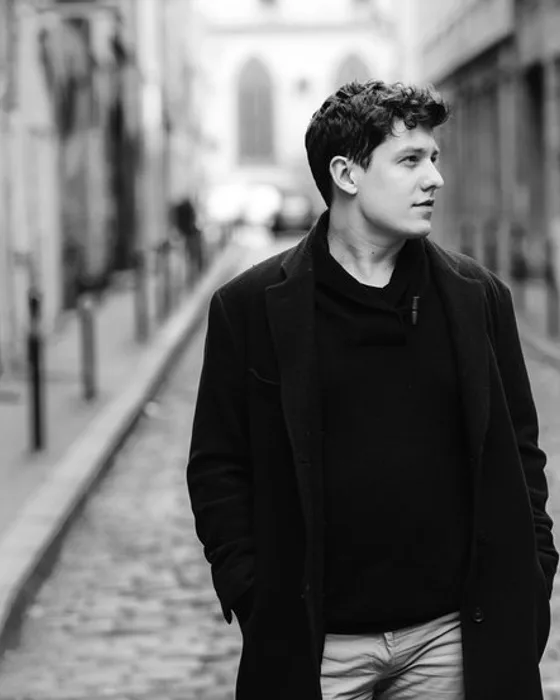
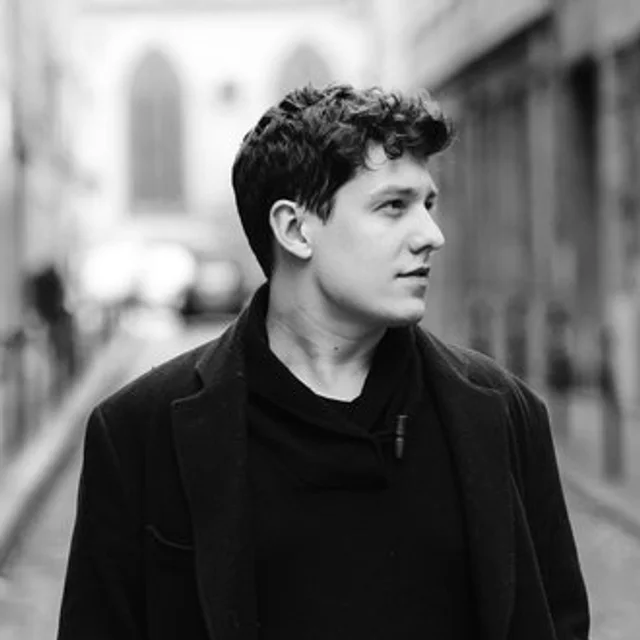
feat: portrait de Thibault en cercle + correctif CTA flottant mobile
- Photo du professeur retraitée : recadrage carré centré sur le visage,
  affichée en cercle avec liseré or (au lieu du cadre rectangulaire)
- Fix : le CTA flottant mobile ne s'affichait plus que sur mobile
  (la classe .btn écrasait lg:hidden -> classe .mobile-cta dédiée)

diff --git a/src/app/page.tsx b/src/app/page.tsx
@@ -413,17 +413,25 @@ export default function Home() {
             <div className="mt-12 grid gap-12 lg:grid-cols-[0.85fr_1.15fr] lg:items-start">
               <div>
                 <figure
-                  style={{ position: "relative", overflow: "hidden", borderRadius: "4px", border: "1px solid var(--color-gold)", aspectRatio: "4 / 5", maxWidth: "330px", boxShadow: "0 18px 40px -22px rgba(0,0,0,0.6)" }}
+                  style={{
+                    position: "relative",
+                    overflow: "hidden",
+                    borderRadius: "50%",
+                    border: "2px solid var(--color-gold)",
+                    width: "clamp(180px, 42vw, 236px)",
+                    aspectRatio: "1 / 1",
+                    boxShadow: "0 18px 44px -20px rgba(0,0,0,0.65), inset 0 0 0 6px rgba(36,59,69,0.55)",
+                  }}
                 >
                   <img
                     src="/images/thibault.webp"
                     alt="Portrait de Thibault Wagret"
-                    width={560}
-                    height={700}
+                    width={640}
+                    height={640}
                     style={{ width: "100%", height: "100%", objectFit: "cover" }}
                   />
                 </figure>
-                <p className="mt-3 italic text-[0.9rem]" style={{ color: "rgba(251,245,230,0.7)" }}>
+                <p className="mt-4 italic text-[0.9rem]" style={{ color: "rgba(251,245,230,0.7)" }}>
                   Thibault Wagret — agrégé de Lettres classiques, doctorant à l&apos;ENS de Lyon.
                 </p>
                 <ul className="mt-7 flex flex-col gap-4">

diff --git a/src/components/site/MobileCTA.tsx b/src/components/site/MobileCTA.tsx
@@ -5,8 +5,9 @@ import { useEffect, useState } from "react";
 
 /**
  * Bouton flottant « Réserver un appel » sur mobile uniquement.
- * Apparaît après le héros et se masque quand la section de réservation est
- * à l'écran (pour ne pas recouvrir le formulaire).
+ * (N'utilise PAS la classe .btn : sa règle display écraserait le masquage
+ *  desktop. Le masquage ≥1024px est géré par la classe .mobile-cta en CSS.)
+ * Apparaît après le héros, se masque quand la réservation est à l'écran.
  */
 export function MobileCTA() {
   const [visible, setVisible] = useState(false);
@@ -36,7 +37,7 @@ export function MobileCTA() {
   return (
     <Link
       href="#reservation"
-      className="btn btn-primary lg:hidden"
+      className="mobile-cta"
       aria-hidden={!visible}
       tabIndex={visible ? 0 : -1}
       style={{
@@ -45,7 +46,14 @@ export function MobileCTA() {
         right: "1rem",
         bottom: "max(1rem, env(safe-area-inset-bottom))",
         zIndex: 45,
-        boxShadow: "0 10px 30px -8px rgba(122,30,26,0.5)",
+        background: "var(--color-accent)",
+        color: "var(--color-surface)",
+        fontFamily: "var(--font-ui)",
+        fontWeight: 500,
+        fontSize: "0.97rem",
+        padding: "0.95rem 1.4rem",
+        borderRadius: "3px",
+        boxShadow: "0 10px 30px -8px rgba(122,30,26,0.55)",
         transition: "opacity .25s ease, transform .25s ease",
         opacity: visible ? 1 : 0,
         transform: visible ? "none" : "translateY(120%)",

diff --git a/src/app/globals.css b/src/app/globals.css
@@ -237,6 +237,19 @@
   filter: saturate(0.9) sepia(0.14) contrast(1.03) brightness(1.02);
 }
 
+/* Bouton flottant mobile : visible en colonne, masqué sur grand écran */
+.mobile-cta {
+  display: flex;
+  align-items: center;
+  justify-content: center;
+  text-align: center;
+}
+@media (min-width: 1024px) {
+  .mobile-cta {
+    display: none !important;
+  }
+}
+
 /* Animation d'apparition au défilement */
 .reveal {
   opacity: 0;